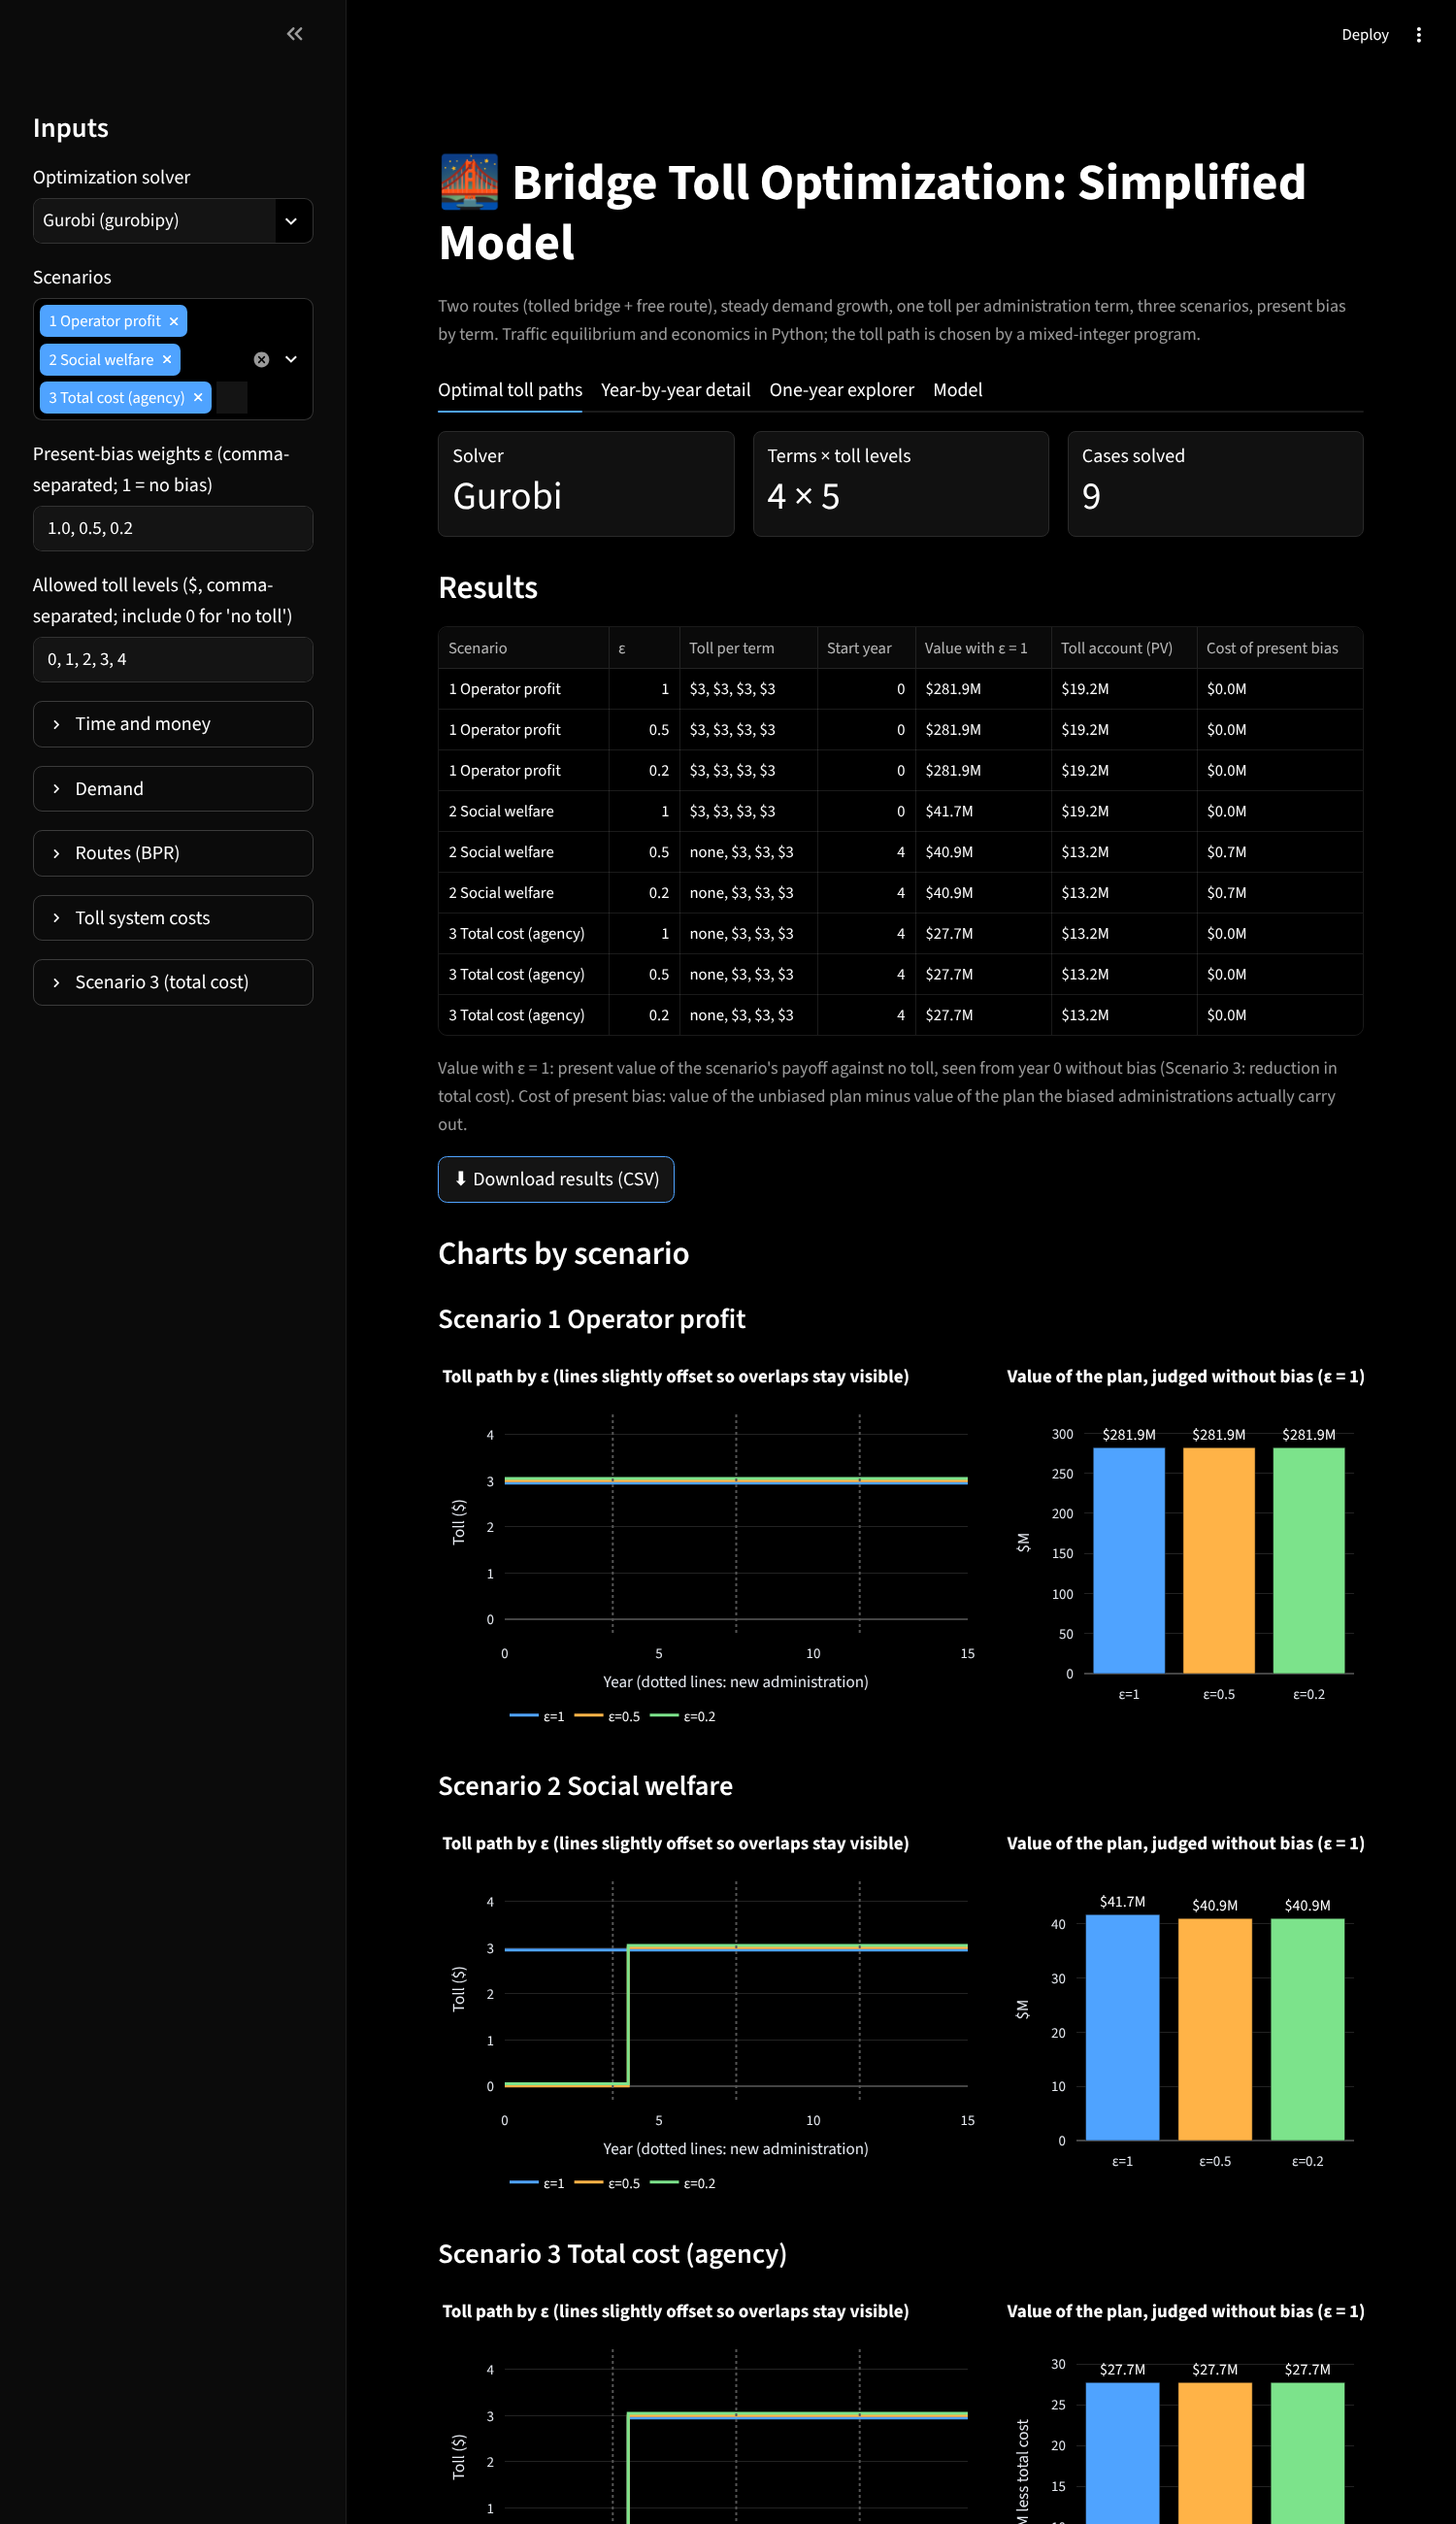
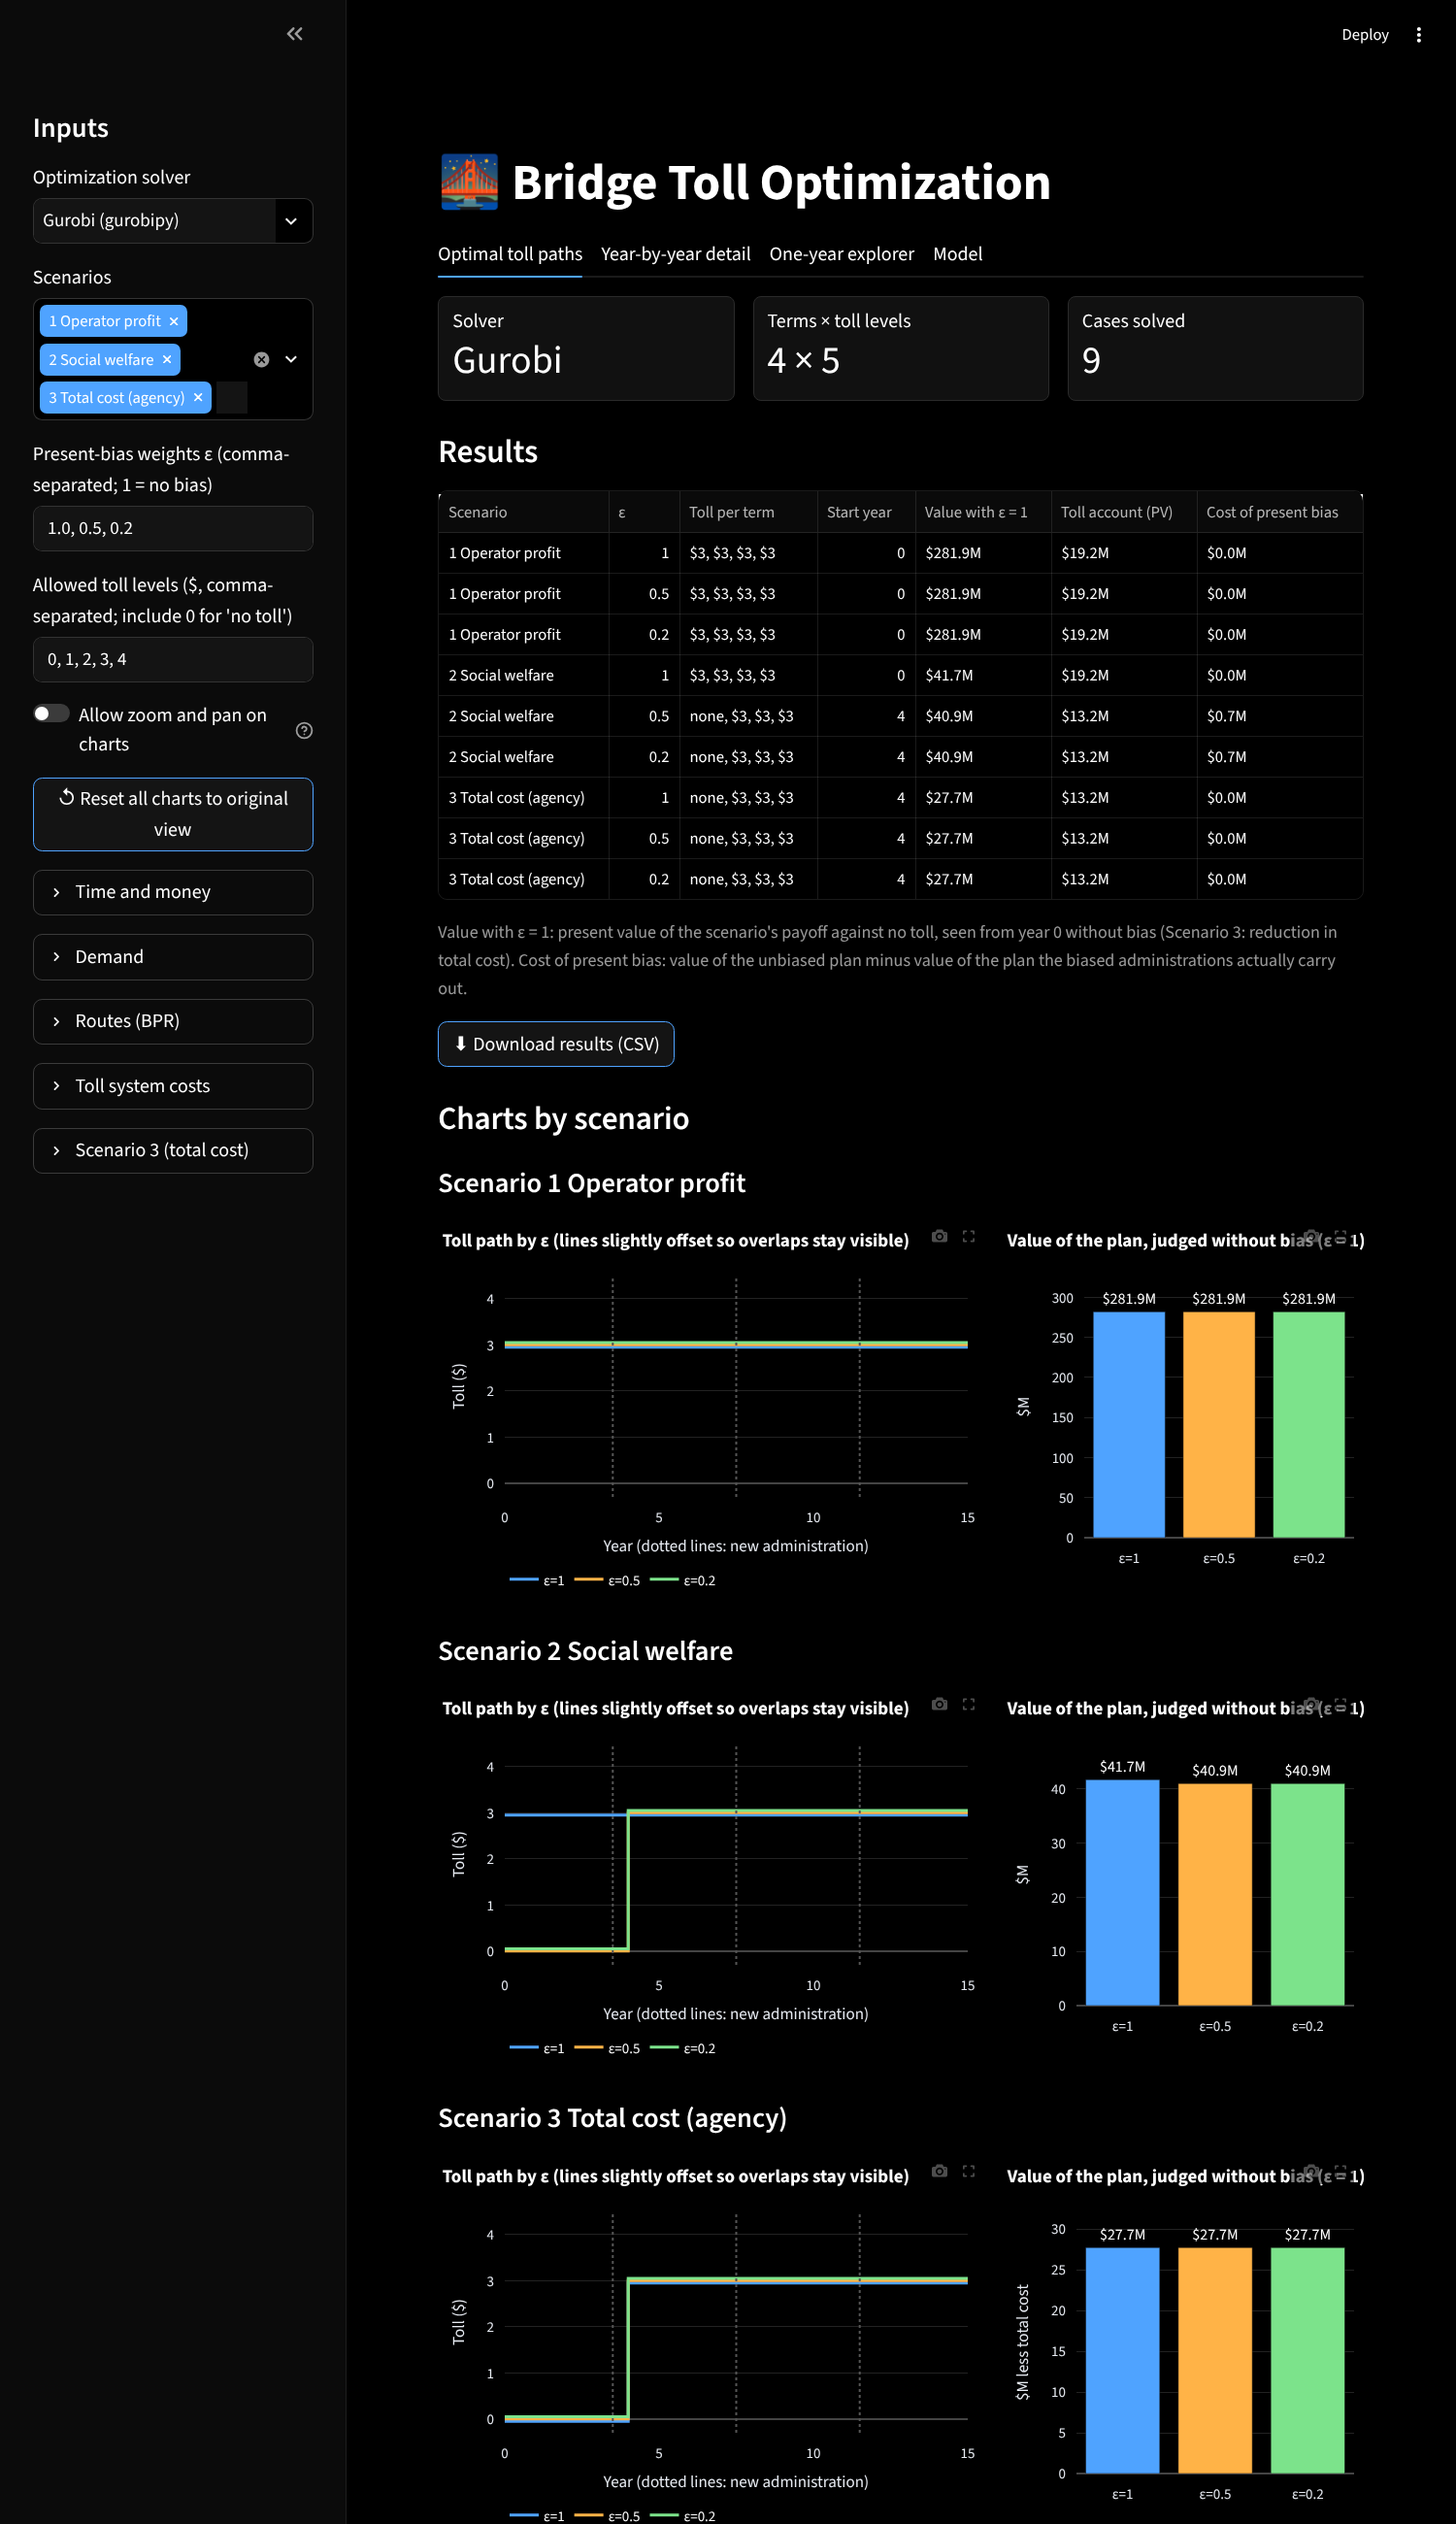
Shorten page header: remove subtitle and description
Claude-Session: https://claude.ai/code/session_0129feVd4pPai8W8EKLuQohT

diff --git a/app.py b/app.py
@@ -173,10 +173,7 @@ def optimize(p: tm.Params, scen: tuple, eps_list: tuple, backend: str):
 
 
 # ------------------------------------------------------------------------- header
-st.title("🌉 Bridge Toll Optimization: Simplified Model")
-st.caption("Two routes (tolled bridge + free route), steady demand growth, one toll per administration term, "
-           "three scenarios, present bias by term. Traffic equilibrium and economics in Python; "
-           "the toll path is chosen by a mixed-integer program.")
+st.title("🌉 Bridge Toll Optimization")
 
 if not scen:
     st.info("Pick at least one scenario in the sidebar.")
